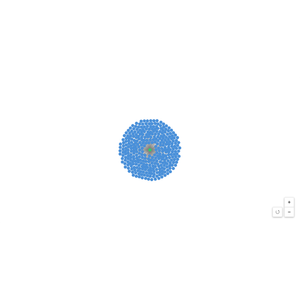
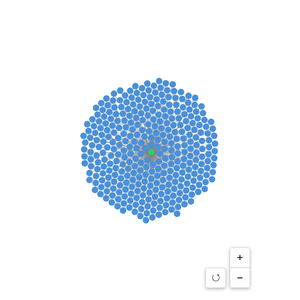
feat: improve screenshot generation
- Constrain viewport to 500px width for consistent rendering
- Wait 5 seconds for full app load (tiles, animations, data)
- Screenshot just the inner iframe (no extra whitespace)
- Save both screenshot.png (full-size) and grid-cell.png (300x300 thumbnail)
- Use contain mode to preserve aspect ratio

Changed region(s): [[0.27, 0.24, 0.75, 0.75], [0.66, 0.84, 0.84, 0.99], [0.9, 0.69, 0.93, 0.72]]

diff --git a/tests/e2e/generate-grid-screenshots.spec.ts b/tests/e2e/generate-grid-screenshots.spec.ts
@@ -2,7 +2,6 @@
  * Generate 300x300 grid-cell.png screenshots for each example server.
  *
  * Usage:
- *   # Generate screenshots (starts server automatically via playwright.config):
  *   npm run generate:screenshots
  *
  * Output: examples/<server-dir>/grid-cell.png (300x300 centered, aspect-fit)
@@ -16,13 +15,8 @@ import * as fs from "fs";
 import sharp from "sharp";
 
 const OUTPUT_SIZE = 300;
-
-// Servers that need extra stabilization time
-const SLOW_SERVERS: Record<string, number> = {
-  "map-server": 5000,
-  threejs: 2000,
-  shadertoy: 1000,
-};
+const APP_WIDTH = 500;
+const LOAD_WAIT_MS = 5000;
 
 // Server configurations
 const SERVERS = [
@@ -58,7 +52,11 @@ const SERVERS = [
     dir: "scenario-modeler-server",
   },
   { key: "shadertoy", name: "ShaderToy Server", dir: "shadertoy-server" },
-  { key: "sheet-music", name: "Sheet Music Server", dir: "sheet-music-server" },
+  {
+    key: "sheet-music",
+    name: "Sheet Music Server",
+    dir: "sheet-music-server",
+  },
   {
     key: "system-monitor",
     name: "System Monitor Server",
@@ -100,15 +98,24 @@ async function loadServer(page: Page, serverName: string) {
 }
 
 /**
- * Capture the app iframe content and save as 300x300 centered, aspect-fit image.
+ * Capture the app iframe content and save both:
+ * - screenshot.png: full-size raw screenshot of the iframe
+ * - grid-cell.png: 300x300 centered, aspect-fit thumbnail
  */
-async function captureAppScreenshot(page: Page, outputPath: string) {
+async function captureAppScreenshot(page: Page, outputDir: string) {
+  // Get the inner app iframe element (not body, to avoid extra whitespace)
   const outerFrame = page.frameLocator("iframe").nth(0);
-  const innerFrame = outerFrame.frameLocator("iframe").nth(0);
-  const appBody = innerFrame.locator("body");
+  const innerIframe = outerFrame.locator("iframe").nth(0);
 
-  const screenshot = await appBody.screenshot();
+  // Screenshot just the inner iframe element
+  const screenshot = await innerIframe.screenshot();
 
+  // Save full-size screenshot
+  const screenshotPath = path.join(outputDir, "screenshot.png");
+  await sharp(screenshot).png().toFile(screenshotPath);
+
+  // Save 300x300 grid cell thumbnail
+  const gridCellPath = path.join(outputDir, "grid-cell.png");
   await sharp(screenshot)
     .resize(OUTPUT_SIZE, OUTPUT_SIZE, {
       fit: "contain",
@@ -116,15 +123,19 @@ async function captureAppScreenshot(page: Page, outputPath: string) {
       background: { r: 255, g: 255, b: 255, alpha: 1 },
     })
     .png()
-    .toFile(outputPath);
+    .toFile(gridCellPath);
+
+  return { screenshotPath, gridCellPath };
 }
+
+// Use a constrained viewport width for consistent app rendering
+test.use({ viewport: { width: APP_WIDTH, height: 600 } });
 
 // Generate screenshots for each server
 for (const server of SERVERS) {
   test(`Generate grid-cell.png for ${server.dir}`, async ({ page }) => {
     const examplesDir = path.join(process.cwd(), "examples");
     const outputDir = path.join(examplesDir, server.dir);
-    const outputPath = path.join(outputDir, "grid-cell.png");
 
     // Skip if directory doesn't exist
     if (!fs.existsSync(outputDir)) {
@@ -136,12 +147,14 @@ for (const server of SERVERS) {
     // Load the server
     await loadServer(page, server.name);
 
-    // Wait for stabilization
-    const stabilizationMs = SLOW_SERVERS[server.key] ?? 500;
-    await page.waitForTimeout(stabilizationMs);
+    // Wait 5 seconds for app to fully load (animations, data, tiles, etc.)
+    await page.waitForTimeout(LOAD_WAIT_MS);
 
-    // Capture and save
-    await captureAppScreenshot(page, outputPath);
-    console.log(`✅ Saved ${outputPath}`);
+    // Capture and save both screenshot.png and grid-cell.png
+    const { screenshotPath, gridCellPath } = await captureAppScreenshot(
+      page,
+      outputDir,
+    );
+    console.log(`✅ Saved ${screenshotPath} + ${gridCellPath}`);
   });
 }

diff --git a/README.md b/README.md
@@ -4,18 +4,18 @@
 
 ## Example Gallery
 
-| | | |
-|:---:|:---:|:---:|
-| [![Map](examples/map-server/grid-cell.png "Interactive 3D globe viewer using CesiumJS with OpenStreetMap tiles")](examples/map-server) | [![Three.js](examples/threejs-server/grid-cell.png "Interactive 3D scene renderer using Three.js")](examples/threejs-server) | [![ShaderToy](examples/shadertoy-server/grid-cell.png "Real-time GLSL fragment shader renderer using WebGL 2.0")](examples/shadertoy-server) |
-| [**Map**](examples/map-server) | [**Three.js**](examples/threejs-server) | [**ShaderToy**](examples/shadertoy-server) |
-| [![Sheet Music](examples/sheet-music-server/grid-cell.png "Renders ABC notation as sheet music with audio playback")](examples/sheet-music-server) | [![Wiki Explorer](examples/wiki-explorer-server/grid-cell.png "Visualizes Wikipedia link graphs using force-directed layout")](examples/wiki-explorer-server) | [![Cohort Heatmap](examples/cohort-heatmap-server/grid-cell.png "Interactive heatmap showing customer retention over time")](examples/cohort-heatmap-server) |
-| [**Sheet Music**](examples/sheet-music-server) | [**Wiki Explorer**](examples/wiki-explorer-server) | [**Cohort Heatmap**](examples/cohort-heatmap-server) |
+|                                                                                                                                                                      |                                                                                                                                                                      |                                                                                                                                                                                   |
+| :------------------------------------------------------------------------------------------------------------------------------------------------------------------: | :------------------------------------------------------------------------------------------------------------------------------------------------------------------: | :-------------------------------------------------------------------------------------------------------------------------------------------------------------------------------: |
+|                [![Map](examples/map-server/grid-cell.png "Interactive 3D globe viewer using CesiumJS with OpenStreetMap tiles")](examples/map-server)                |                     [![Three.js](examples/threejs-server/grid-cell.png "Interactive 3D scene renderer using Three.js")](examples/threejs-server)                     |                   [![ShaderToy](examples/shadertoy-server/grid-cell.png "Real-time GLSL fragment shader renderer using WebGL 2.0")](examples/shadertoy-server)                    |
+|                                                                    [**Map**](examples/map-server)                                                                    |                                                               [**Three.js**](examples/threejs-server)                                                                |                                                                    [**ShaderToy**](examples/shadertoy-server)                                                                     |
+|          [![Sheet Music](examples/sheet-music-server/grid-cell.png "Renders ABC notation as sheet music with audio playback")](examples/sheet-music-server)          |    [![Wiki Explorer](examples/wiki-explorer-server/grid-cell.png "Visualizes Wikipedia link graphs using force-directed layout")](examples/wiki-explorer-server)     |           [![Cohort Heatmap](examples/cohort-heatmap-server/grid-cell.png "Interactive heatmap showing customer retention over time")](examples/cohort-heatmap-server)            |
+|                                                            [**Sheet Music**](examples/sheet-music-server)                                                            |                                                          [**Wiki Explorer**](examples/wiki-explorer-server)                                                          |                                                               [**Cohort Heatmap**](examples/cohort-heatmap-server)                                                                |
 | [![Scenario Modeler](examples/scenario-modeler-server/grid-cell.png "SaaS business parameter modeling with 12-month projections")](examples/scenario-modeler-server) | [![Budget Allocator](examples/budget-allocator-server/grid-cell.png "Interactive budget allocation with real-time visualization")](examples/budget-allocator-server) | [![Customer Segmentation](examples/customer-segmentation-server/grid-cell.png "Interactive scatter/bubble chart with segment clustering")](examples/customer-segmentation-server) |
-| [**Scenario Modeler**](examples/scenario-modeler-server) | [**Budget Allocator**](examples/budget-allocator-server) | [**Customer Segmentation**](examples/customer-segmentation-server) |
-| [![System Monitor](examples/system-monitor-server/grid-cell.png "Real-time OS metrics with CPU and memory charts")](examples/system-monitor-server) | [![Transcript](examples/transcript-server/grid-cell.png "Live speech transcription using Web Speech API")](examples/transcript-server) | [![Video Resource](examples/video-resource-server/grid-cell.png "Demonstrates serving binary video content via MCP resources")](examples/video-resource-server) |
-| [**System Monitor**](examples/system-monitor-server) | [**Transcript**](examples/transcript-server) | [**Video Resource**](examples/video-resource-server) |
-| [![Basic React](examples/basic-server-react/grid-cell.png "Starter template: MCP App with React UI")](examples/basic-server-react) | [![Integration Test](examples/integration-server/grid-cell.png "E2E integration testing example")](examples/integration-server) | |
-| [**Basic React**](examples/basic-server-react) | [**Integration Test**](examples/integration-server) | |
+|                                                       [**Scenario Modeler**](examples/scenario-modeler-server)                                                       |                                                       [**Budget Allocator**](examples/budget-allocator-server)                                                       |                                                        [**Customer Segmentation**](examples/customer-segmentation-server)                                                         |
+|         [![System Monitor](examples/system-monitor-server/grid-cell.png "Real-time OS metrics with CPU and memory charts")](examples/system-monitor-server)          |                [![Transcript](examples/transcript-server/grid-cell.png "Live speech transcription using Web Speech API")](examples/transcript-server)                |          [![Video Resource](examples/video-resource-server/grid-cell.png "Demonstrates serving binary video content via MCP resources")](examples/video-resource-server)          |
+|                                                         [**System Monitor**](examples/system-monitor-server)                                                         |                                                             [**Transcript**](examples/transcript-server)                                                             |                                                               [**Video Resource**](examples/video-resource-server)                                                                |
+|                  [![Basic React](examples/basic-server-react/grid-cell.png "Starter template: MCP App with React UI")](examples/basic-server-react)                  |                   [![Integration Test](examples/integration-server/grid-cell.png "E2E integration testing example")](examples/integration-server)                    |                                                                                                                                                                                   |
+|                                                            [**Basic React**](examples/basic-server-react)                                                            |                                                         [**Integration Test**](examples/integration-server)                                                          |                                                                                                                                                                                   |
 
 This repo contains the SDK and [specification](https://github.com/modelcontextprotocol/ext-apps/blob/main/specification/draft/apps.mdx) for MCP Apps Extension ([SEP-1865](https://github.com/modelcontextprotocol/modelcontextprotocol/pull/1865)).
 
